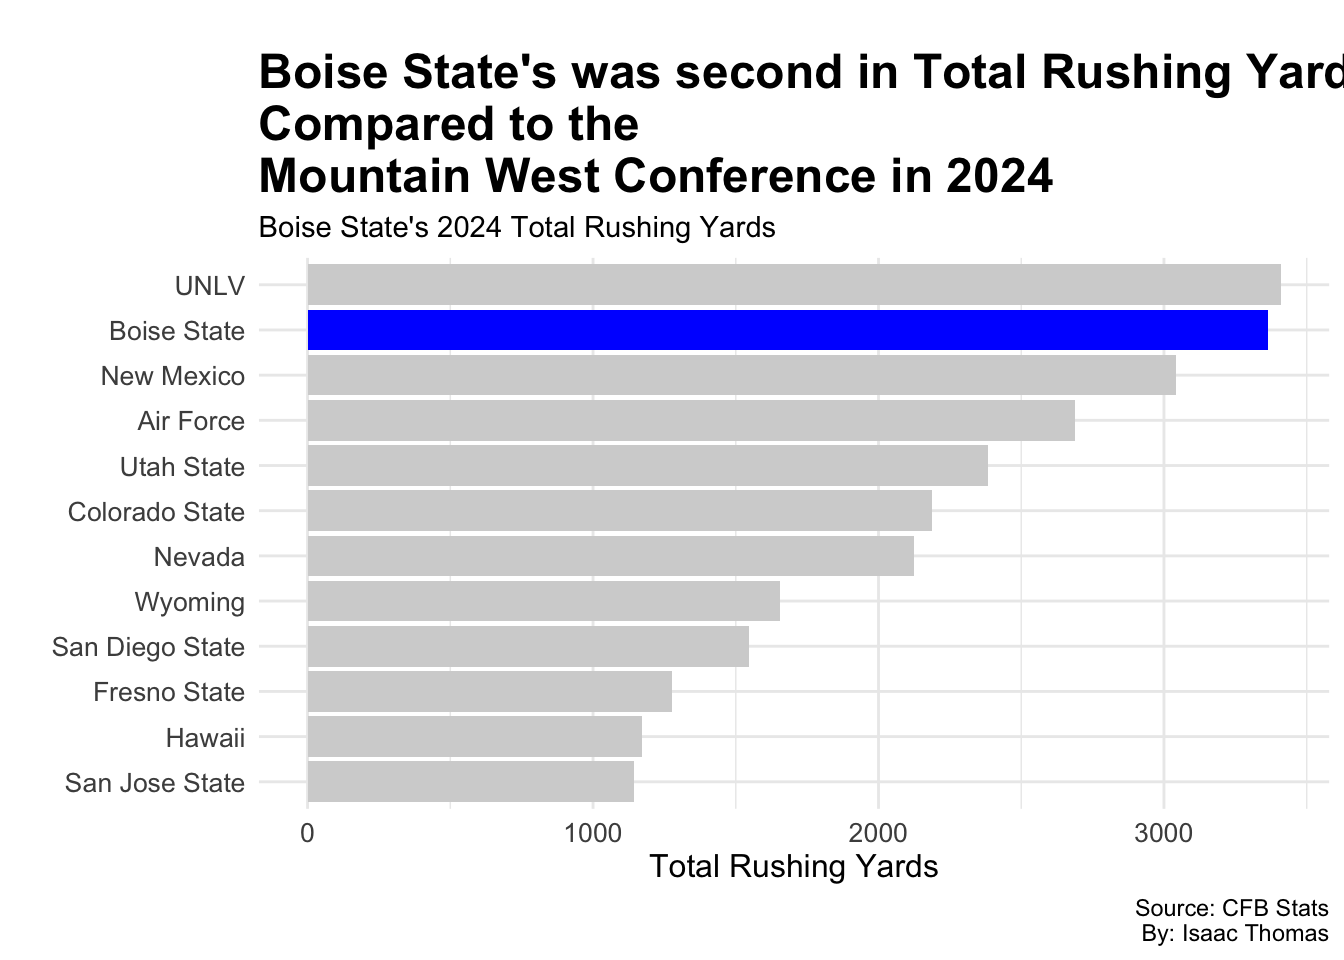
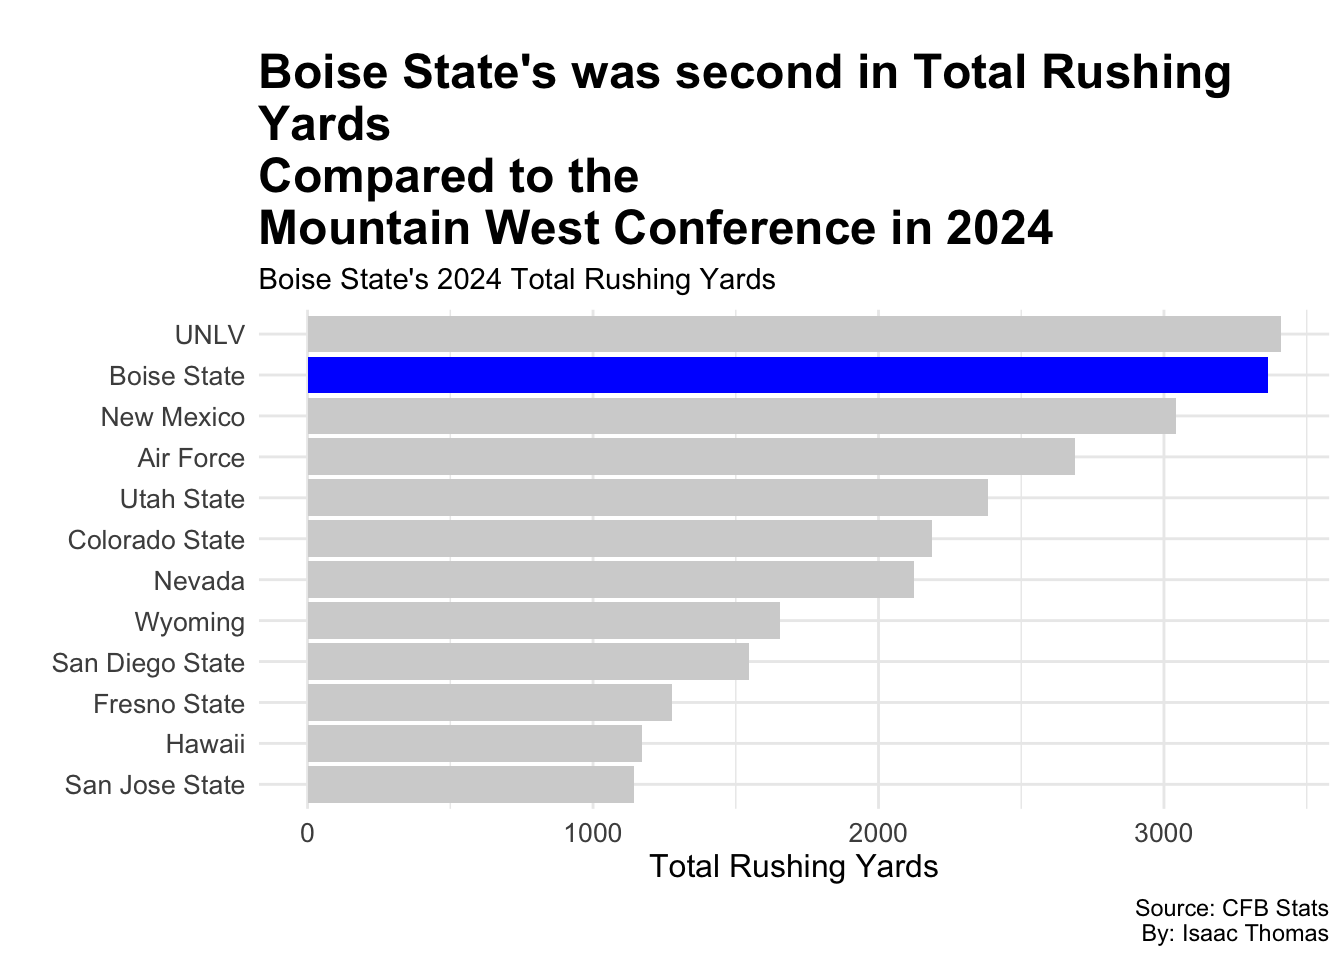
Final render and site files

Changed region(s): [[0.0312, 0.0938, 0.9688, 0.8438], [0.9375, 0.0625, 1.0, 0.0938]]

diff --git a/posts/boise-state-rushing-offense-last-ten-years/index.html b/posts/boise-state-rushing-offense-last-ten-years/index.html
@@ -286,7 +286,7 @@ pre > code.sourceCode > span > a:first-child::before { text-decoration: underlin
 <span id="cb2-28"><a href="#cb2-28" aria-hidden="true" tabindex="-1"></a>           <span class="fu">aes</span>(<span class="at">x =</span> <span class="fu">reorder</span>(Name, Yards), <span class="at">weight =</span> Yards), <span class="at">fill =</span> <span class="st">"blue"</span>) <span class="sc">+</span></span>
 <span id="cb2-29"><a href="#cb2-29" aria-hidden="true" tabindex="-1"></a>  <span class="fu">coord_flip</span>() <span class="sc">+</span></span>
 <span id="cb2-30"><a href="#cb2-30" aria-hidden="true" tabindex="-1"></a>  <span class="fu">labs</span>(</span>
-<span id="cb2-31"><a href="#cb2-31" aria-hidden="true" tabindex="-1"></a>    <span class="at">title =</span> <span class="st">"Boise State's was second in Total Rushing Yards</span><span class="sc">\n</span><span class="st">Compared to the</span><span class="sc">\n</span><span class="st">Mountain West Conference in 2024"</span>,</span>
+<span id="cb2-31"><a href="#cb2-31" aria-hidden="true" tabindex="-1"></a>    <span class="at">title =</span> <span class="st">"Boise State's was second in Total Rushing </span><span class="sc">\n</span><span class="st">Yards</span><span class="sc">\n</span><span class="st">Compared to the</span><span class="sc">\n</span><span class="st">Mountain West Conference in 2024"</span>,</span>
 <span id="cb2-32"><a href="#cb2-32" aria-hidden="true" tabindex="-1"></a>    <span class="at">subtitle =</span> <span class="st">"Boise State's 2024 Total Rushing Yards"</span>,</span>
 <span id="cb2-33"><a href="#cb2-33" aria-hidden="true" tabindex="-1"></a>    <span class="at">x =</span> <span class="st">""</span>,</span>
 <span id="cb2-34"><a href="#cb2-34" aria-hidden="true" tabindex="-1"></a>    <span class="at">y =</span> <span class="st">"Total Rushing Yards"</span>,</span>
@@ -342,7 +342,7 @@ pre > code.sourceCode > span > a:first-child::before { text-decoration: underlin
 <span id="cb3-28"><a href="#cb3-28" aria-hidden="true" tabindex="-1"></a>           <span class="fu">aes</span>(<span class="at">x =</span> <span class="fu">reorder</span>(Name, Yards), <span class="at">weight =</span> Yards), <span class="at">fill =</span> <span class="st">"blue"</span>) <span class="sc">+</span></span>
 <span id="cb3-29"><a href="#cb3-29" aria-hidden="true" tabindex="-1"></a>  <span class="fu">coord_flip</span>() <span class="sc">+</span></span>
 <span id="cb3-30"><a href="#cb3-30" aria-hidden="true" tabindex="-1"></a>  <span class="fu">labs</span>(</span>
-<span id="cb3-31"><a href="#cb3-31" aria-hidden="true" tabindex="-1"></a>    <span class="at">title =</span> <span class="st">"Boise State was second in Total Rushing Yards</span><span class="sc">\n</span><span class="st">in the</span><span class="sc">\n</span><span class="st">Mountain West Conference"</span>,</span>
+<span id="cb3-31"><a href="#cb3-31" aria-hidden="true" tabindex="-1"></a>    <span class="at">title =</span> <span class="st">"Boise State was second in Total Rushing </span><span class="sc">\n</span><span class="st">Yards in the</span><span class="sc">\n</span><span class="st">Mountain West Conference"</span>,</span>
 <span id="cb3-32"><a href="#cb3-32" aria-hidden="true" tabindex="-1"></a>    <span class="at">subtitle =</span> <span class="st">"Boise State's 2023 Total Rushing Yards"</span>,</span>
 <span id="cb3-33"><a href="#cb3-33" aria-hidden="true" tabindex="-1"></a>    <span class="at">x =</span> <span class="st">""</span>,</span>
 <span id="cb3-34"><a href="#cb3-34" aria-hidden="true" tabindex="-1"></a>    <span class="at">y =</span> <span class="st">"Total Rushing Yards"</span>,</span>

diff --git a/index.html b/index.html
@@ -206,7 +206,7 @@ window.Quarto = {
 
 <div class="quarto-listing quarto-listing-container-default" id="listing-listing">
 <div class="list quarto-listing-default">
-<div class="quarto-post image-right" data-index="0" data-categories="Zm9vdGJhbGwlMkNmYnMlMkNjb2xsZWdl" data-listing-date-sort="1763359200000" data-listing-file-modified-sort="1763277967698" data-listing-date-modified-sort="NaN" data-listing-reading-time-sort="15" data-listing-word-count-sort="2809">
+<div class="quarto-post image-right" data-index="0" data-categories="Zm9vdGJhbGwlMkNmYnMlMkNjb2xsZWdl" data-listing-date-sort="1763359200000" data-listing-file-modified-sort="1763278236452" data-listing-date-modified-sort="NaN" data-listing-reading-time-sort="15" data-listing-word-count-sort="2810">
 <div class="thumbnail"><a href="./posts/boise-state-rushing-offense-last-ten-years/index.html" class="no-external">
 
 <img loading="lazy" src="./posts/boise-state-rushing-offense-last-ten-years/image.png" class="thumbnail-image">
